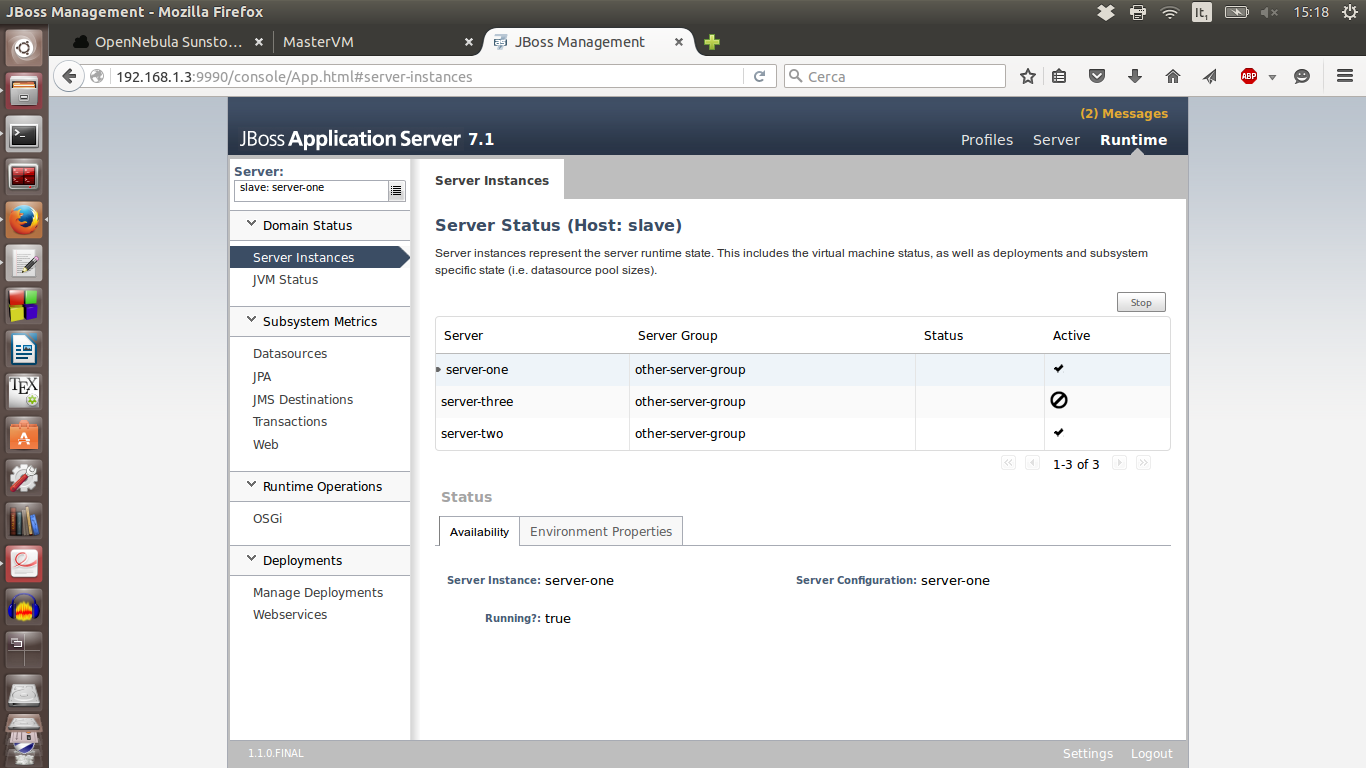
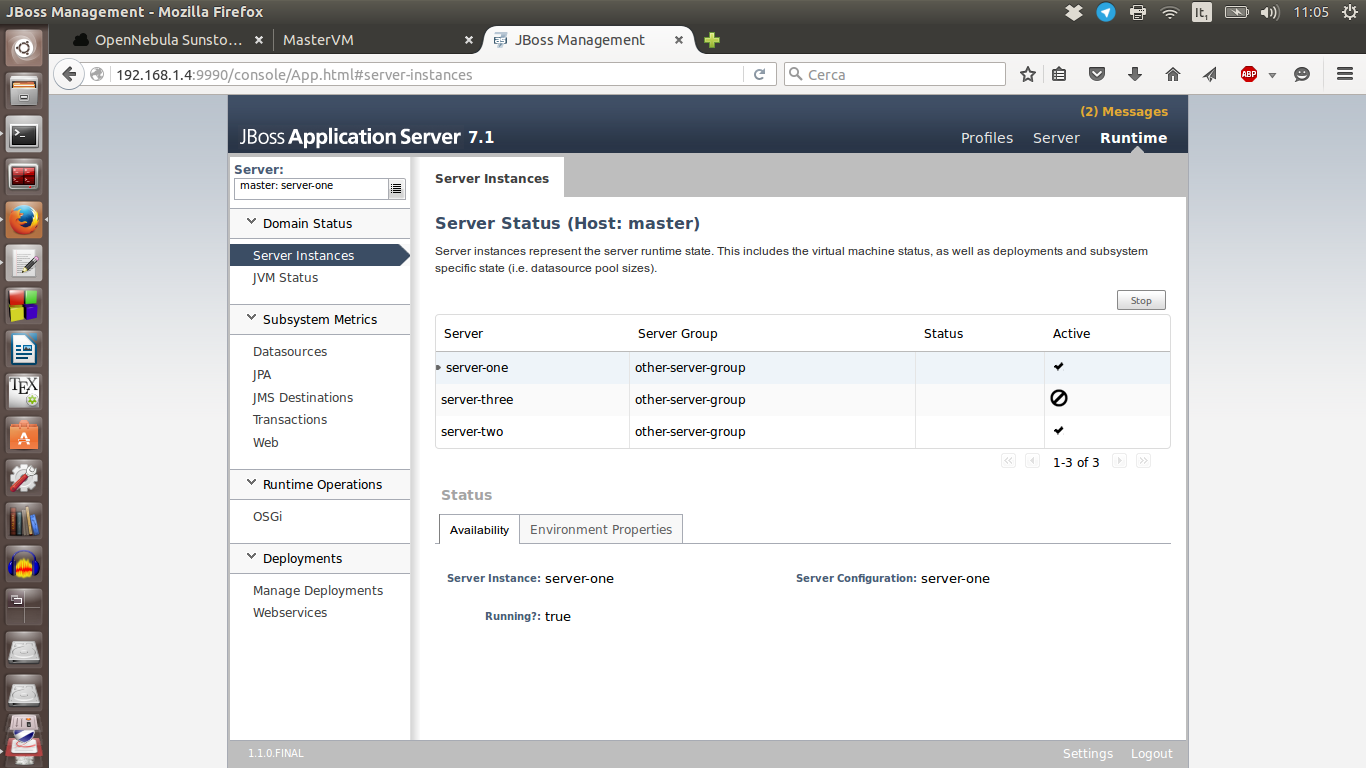
Reinserimento immagini con ip corretti.
Piccoli miglioramenti e descrizione configurazione slave.

diff --git a/progetto/relazione.tex b/progetto/relazione.tex
@@ -224,7 +224,7 @@ $ chmod 600 ~/.ssh/config
 I Worker sono i nodi su cui vengono eseguite le macchine virtuali instanziate dal Front-end.
 La configurazione è simile a quella appena illustrata per il Front-end: è stata scaricata la repo
 e sono state installate tutte le dipendenze. Successivamente data la nostra scelta di utilizzare
-il protocollo DHCP attraverso l'interfaccia eth0 e l'uso di IP statici, come anticipato prima,
+il protocollo DHCP attraverso l'interfaccia \texttt{eth0} e l'uso di IP statici, come anticipato prima,
 siamo andati a sostituire a sostituire il file \texttt{/etc/network/interfaces} con:
 \begin{lstlisting}[frame=trBL]
 auto lo
@@ -232,7 +232,7 @@ iface lo inet loopback
 
 auto br0
 iface br0 inet static
-        address 192.168.1.101 // indirizzo del worker
+        address 192.168.1.101
         network 192.168.1.0
         netmask 255.255.255.0
         broadcast 192.168.0.255
@@ -243,6 +243,7 @@ iface br0 inet static
         bridge_maxage 12
         bridge_stp off
 \end{lstlisting}
+dove \texttt{192.168.1.101} rappresenta l'indirizzo del nostro Worker.
 
 Dopo aver fatto questi cambiamenti, abbiamo fatto ripartire il servizio:
 \begin{lstlisting}[frame=trBL]
@@ -300,7 +301,7 @@ $ kvm -cpu host -smp 1 -m 1024 -cdrom nome_immagine.iso disk_image.img
 \end{lstlisting}
 Come si vede abbiamo usato kvm \cite{bib:kvm} per la virtualizzazione.
 \newpage
-Il sistema inoltre è stato impreziosito con:
+Usando kvm, il sistema è stato impreziosito con:
 \begin{itemize}
 	\item installazione SSH
 \end{itemize}
@@ -313,13 +314,13 @@ Il sistema inoltre è stato impreziosito con:
 \begin{lstlisting}[frame=trBL]
 $ wget http://download.jboss.org/jbossas/7.1/jboss-as-7.1.1.Final/jboss-as-7.1.1.Final.tar.gz		  
 \end{lstlisting}
+Dopo aver fatto ciò, l'immagine è stata caricata su OpenNebula.
 
 \section{Installazione di JBoss}
 In questo paragrafo illustreremo l'installazione di JBoss \cite{bib:jboss}
 che è stata eseguita sulla macchina virtuale che abbiamo precedentemente configurato. 
-In primo luogo è stato necessario scaricare JBoss e decomprimere
-l'archivio, poi abbiamo spostato la cartella così ottenuta nella directory imposta come
-home di JBoss:
+In primo luogo è stato necessario decomprimere l'archivio di JBoss.
+Poi abbiamo spostato la cartella così ottenuta nella directory imposta come home di JBoss:
 \begin{lstlisting}[frame=trBL]
 tar xfvz jboss-as-7.1.1.Final.tar.gz
 mv jboss-as-7.1.1.Final /opt/jboss
@@ -347,7 +348,50 @@ Per configurare il Master affinché si possa comportare da domain controller si 
 </interfaces>
 \end{lstlisting}
 
-CONFIGURAZIONE DELLO SLAVE
+Per configurare uno Slave, invece, abbiamo caricato una nuova immagine di Ubuntu su OpenNebula
+e, dopo aver estratto JBoss e aver spostato la cartella risultante nella directory
+impostata come sua home, abbiamo creato un nuovo utente JBoss, impostando come
+user \texttt{slave1} e come password \texttt{123123}.
+In seguito è stato modificato il file \texttt{host.xml}:
+\newpage
+
+\begin{lstlisting}[frame=trBL]
+<host name="slave" xmlns="urn:jboss:domain:1.2">
+...
+<domain-controller>
+	<remote host="192.168.1.3" port="9999" security-realm="ManagementRealm"/>
+</domain-controller>
+...
+<interfaces>
+	<interface name="management">
+		<inet-address value="${jboss.bind.address.management:192.168.1.3}"/>
+	</interface>
+	<interface name="public">
+		<inet-address value="${jboss.bind.address:192.168.1.3}"/>
+	</interface>
+	<interface name="unsecured">
+		<inet-address value="${jboss.bind.unsecured:192.168.1.3}" />
+	</interface>
+</interfaces>
+...
+\end{lstlisting}
+
+Chiaramente è stato necessario gestire l'autenticazione: nel file \texttt{host.xml}
+è stata cambiata la sezione security-realms, aggiungendo una nuova sezione server-identities
+e modificando il valore dell'attributo value con quello in base64 della password dell'utente Slave,
+ossia \texttt{123123}:
+\begin{lstlisting}[frame=trBL]
+<security-realms>
+	<security-realm name="ManagementRealm">
+		<server-identities>
+			<secret value="MTIzMTIz="/>
+		</server-identities>
+	<authentication>
+		<properties path="mgmt-users.properties" relative-to="jboss.domain.config.dir"/>
+	</authentication>
+	</security-realm>
+</security-realms>
+\end{lstlisting}
 
 Successivamente è stato installato il modulo \texttt{mod\char`_cluster} in modo tale da poterlo
 usare da load balancer per il cluster. Dopo aver scaricato il pacchetto e averlo estratto,
@@ -362,6 +406,7 @@ tar xvf mod-cluster-1.2.0.Final-linux2-x64-ssl.tar.gz
 cp -R mod-cluster-1.2.0-linux2-x86-ssl/httpd /opt/jboss/
 \end{lstlisting}
 \'{E} stato anche necessario modificare il file \texttt{/opt/jboss/httpd/httpd/conf/httpd.conf}:
+\newpage
 \begin{lstlisting}[frame=trBL]
 ServerName master
 
@@ -415,7 +460,7 @@ Per avviare JBoss è stato eseguito lo script:
 
 A questo punto è stato possibile collegarsi all'interfaccia del servizio digitando l'indirizzo
 \begin{lstlisting}[frame=trBL]
-http://192.168.1.3:9990/console/App.html
+http://192.168.1.4:9990/console/App.html
 \end{lstlisting}
 nel browser web. Dopo aver quindi eseguito il login, la
 schermata risultante non è molto dissimile a quella raffigurata in Figura \ref{fig:1}.
